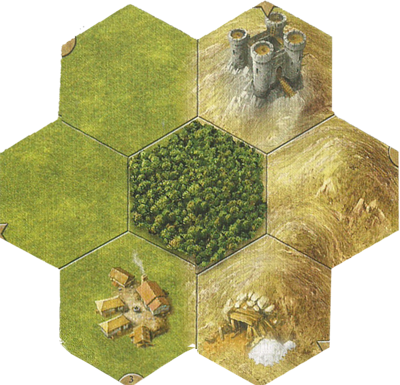
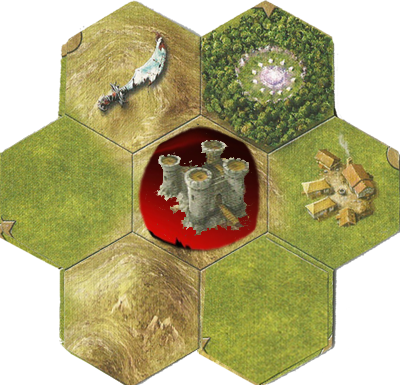
몬스터 벨런스
턴에 따른 벨런스
맵변경

diff --git a/enamyclass.py b/enamyclass.py
@@ -26,8 +26,28 @@ class Enamy():
     def __init__(self):
         if Enamy.image==None:
             Enamy.image=[load_image('png\\mon-1.png'),load_image('png\\mon-2.png'),
-                         load_image('png\\mon-3.png'),load_image('png\\mon-4.png')]
-        self.number=random.randint(0,3)
+                         load_image('png\\mon-3.png'),load_image('png\\mon-4.png'),
+                          load_image('png\\mon-5.png'),load_image('png\\mon-6.png'),
+                         load_image('png\\mon-7.png'),load_image('png\\mon-8.png'),
+                         load_image('png\\mon-9.png'),load_image('png\\mon-10.png'),
+                         load_image('png\\mon-11.png'),load_image('png\\mon-12.png'),
+                         load_image('png\\mon-13.png'),load_image('png\\mon-14.png'),
+                         load_image('png\\mon-15.png')]
+        if map.Chracter.type==2 or map.Chracter.type==1:
+            if map.turnnumber<80:
+                self.number=random.randint(0,1+(int)(map.turnnumber/30))
+            else : self.number=random.randint(0,4)
+        if map.Chracter.type==3:
+            if map.turnnumber<80:
+                self.number=random.randint(5,6+(int)(map.turnnumber/30))
+            else : self.number=random.randint(5,9)
+        if map.Chracter.type==5:
+            if map.turnnumber<70:
+                self.number=random.randint(10,11+(int)(map.turnnumber/30))
+            else : self.number=random.randint(10,13)
+        if map.Chracter.type==20:
+            self.number=14
+
         self.hplist=Stat_data["hplist"]
         self.dflist=Stat_data["dflist"]
         self.strlist=Stat_data["strlist"]
@@ -38,11 +58,21 @@ class Enamy():
         #if Enamy.str==None:
          #   Enamy.str=load_image("png\\armor.png")
         Enamy.Chracter_x, Enamy.Chracter_y=0,0
-        Enamy.hp=self.hplist[ self.number]-1+(int)(map.turnnumber/100)#적군 벨런스 조정
-        Enamy.maxhp=self.hplist[ self.number]-1+(int)(map.turnnumber/100)#적군 벨런스 조정
-        Enamy.df=self.dflist[ self.number]-1+(int)(map.turnnumber/100)
-        Enamy.str=self.strlist[ self.number]-1+(int)(map.turnnumber/100)
-        Enamy.maxdf=self.dflist[ self.number]-1+(int)(map.turnnumber/100)
+        if map.turnnumber<130:
+            Enamy.hp=self.hplist[ self.number]-2+(int)(map.turnnumber/30)#적군 벨런스 조정
+            Enamy.maxhp=self.hplist[ self.number]-2+(int)(map.turnnumber/30)#적군 벨런스 조정
+        else :
+            Enamy.hp=self.hplist[ self.number]+2
+            Enamy.maxhp=self.hplist[ self.number]+2
+        if map.turnnumber<70:
+             Enamy.df=self.dflist[ self.number]-2+(int)(map.turnnumber/30)
+             Enamy.str=self.strlist[ self.number]-2+(int)(map.turnnumber/30)
+             Enamy.maxdf=self.dflist[ self.number]-2+(int)(map.turnnumber/30)
+        else :
+             Enamy.df=self.dflist[ self.number]
+             Enamy.str=self.strlist[ self.number]
+             Enamy.maxdf=self.dflist[ self.number]
+
 
     def draw(self):
         global battleturn

diff --git a/map.py b/map.py
@@ -169,21 +169,10 @@ def changemap():
 
 
 def handle_events():
-    global running
-    global xpos,ypos
-    global map
-    global move
-    global tile
-    global stat
-    global mouse_x,mouse_y
-    global pausenum
-    global dice_num
-    global tiletype
-    global turntype
-    global turnnumber
-    global statonoff
-    global actionnumber
-    global cardnumber
+    global running,xpos,ypos,actionnumber
+    global map,move,tile,turnnumber,cardnumber
+    global stat,mouse_x,mouse_y,statonoff
+    global pausenum,dice_num,tiletype,turntype
 
     Stop,Right,Left,UP,DOWN=0,1,2,3,4
     events = get_events()
@@ -195,18 +184,20 @@ def handle_events():
             if(event.type,event.key)==(SDL_KEYDOWN,SDLK_ESCAPE):
                 game_framework.quit()
             elif (event.type,event.key)==(SDL_KEYDOWN,SDLK_SPACE):
-                if turntype==1 and Chracter.type==2:
+                if turntype==1 and (Chracter.type==2 or Chracter.type==3 or Chracter.type==5 or Chracter.type==20):
                  changemap()
                 elif turntype==1 and Chracter.type==1:
                     statonoff=stat.onoff
                     cardnumber=random.randint(0,100);
                     turntype=2
                 elif turntype==2 and Chracter.type==1:
-                    pass
+                    turntype=3
                 elif turntype==3 and Chracter.type==1:
                     turntype=4
+                elif turntype==4 and Chracter.type==1:
+                    turntype=0
                 else :
-                    if turntype!=0:
+                    if turntype!=0 and turntype!=3:
                         turnnumber+=1
                     turntype=0
             elif(event.type,event.key)==(SDL_KEYDOWN,SDLK_a):
@@ -235,15 +226,15 @@ def result(num):
         if chracter.hp<chracter.maxhp:
             turntype=0
             chracter.hp+=1
-            return 1
+
 
     elif num>=chracter.luk*5 and num<chracter.luk*5+10:
         turntype=0
         chracter.hp-=1
-        return 2
+
     else :
         turntype=0
-        return 0
+
 
 
 
@@ -269,6 +260,9 @@ def click_card():
         mouse_x,mouse_y=-100,-100
         turntype=3
         return num[2]
+    else :
+        turntype=3
+        return num[0]
 
 
 
@@ -303,6 +297,7 @@ def drawcard(num):
 
     if turntype==4:
          result(actionnumber)
+         turntype=0
 
 
 def enter():

diff --git a/Tileclass.py b/Tileclass.py
@@ -25,7 +25,8 @@ class Tile():
           6:etc["TileType"]["6"],
           7:etc["TileType"]["7"],
           8:etc["TileType"]["8"],
-          9:etc["TileType"]["9"]
+          9:etc["TileType"]["9"],
+          10:etc["TileType"]["10"]
       }
 
 
@@ -41,7 +42,7 @@ class Tile():
           if Tile.y==[]:
              for i in range(8):
                     Tile.y.append([etc["mapy"][i]+etc["tileysize"][j]+map.ypos for j in range(7)])
-          Tile.type=[self.TileType[i] for i in range(10)]
+          Tile.type=[self.TileType[i] for i in range(11)]
           if Tile.ring_image==None:
                 Tile.ring_image=load_image('png\\ring.png')
           self.frame=0
@@ -56,7 +57,7 @@ class Tile():
                   Tile.y[i][j]=etc["mapy"][i]+etc["tileysize"][j]+map.ypos
 
            for j in range(8):
-               for i in range(10):
+               for i in range(11):
                    if map.map[j].mapnumber==i:
                         Tile.type[j]=self.TileType[i]
            self.total_frame+=Tile.FRAMES_PER_ACTION*Tile.ACTION_PER_TIME*frame_time

diff --git a/mapclass.py b/mapclass.py
@@ -21,7 +21,7 @@ class Map():
                        load_image('png\\realmap (3).png'),load_image('png\\realmap (4).png'),
                        load_image('png\\realmap (5).png'),load_image('png\\realmap (6).png'),
                        load_image('png\\realmap (7).png'),load_image('png\\realmap (10).png'),
-                       load_image('png\\realmap (11).png')]
+                       load_image('png\\realmap (9).png')]
         self.number=0
         self.mapnumber=1
         if Map.maponoff==None:

diff --git a/battlemap.py b/battlemap.py
@@ -57,6 +57,8 @@ def handle_events():
             game_framework.quit()
         elif event.type == SDL_KEYDOWN and event.key==SDLK_b:
              game_framework.pop_state()
+        elif event.type == SDL_KEYDOWN and event.key==SDLK_p:
+             print(enamy.hp)
         elif(event.type,event.key)==(SDL_KEYDOWN,SDLK_i):
                  stat.onoff= not stat.onoff
         elif event.type == SDL_KEYDOWN and event.key==SDLK_c: #전투 초기화
